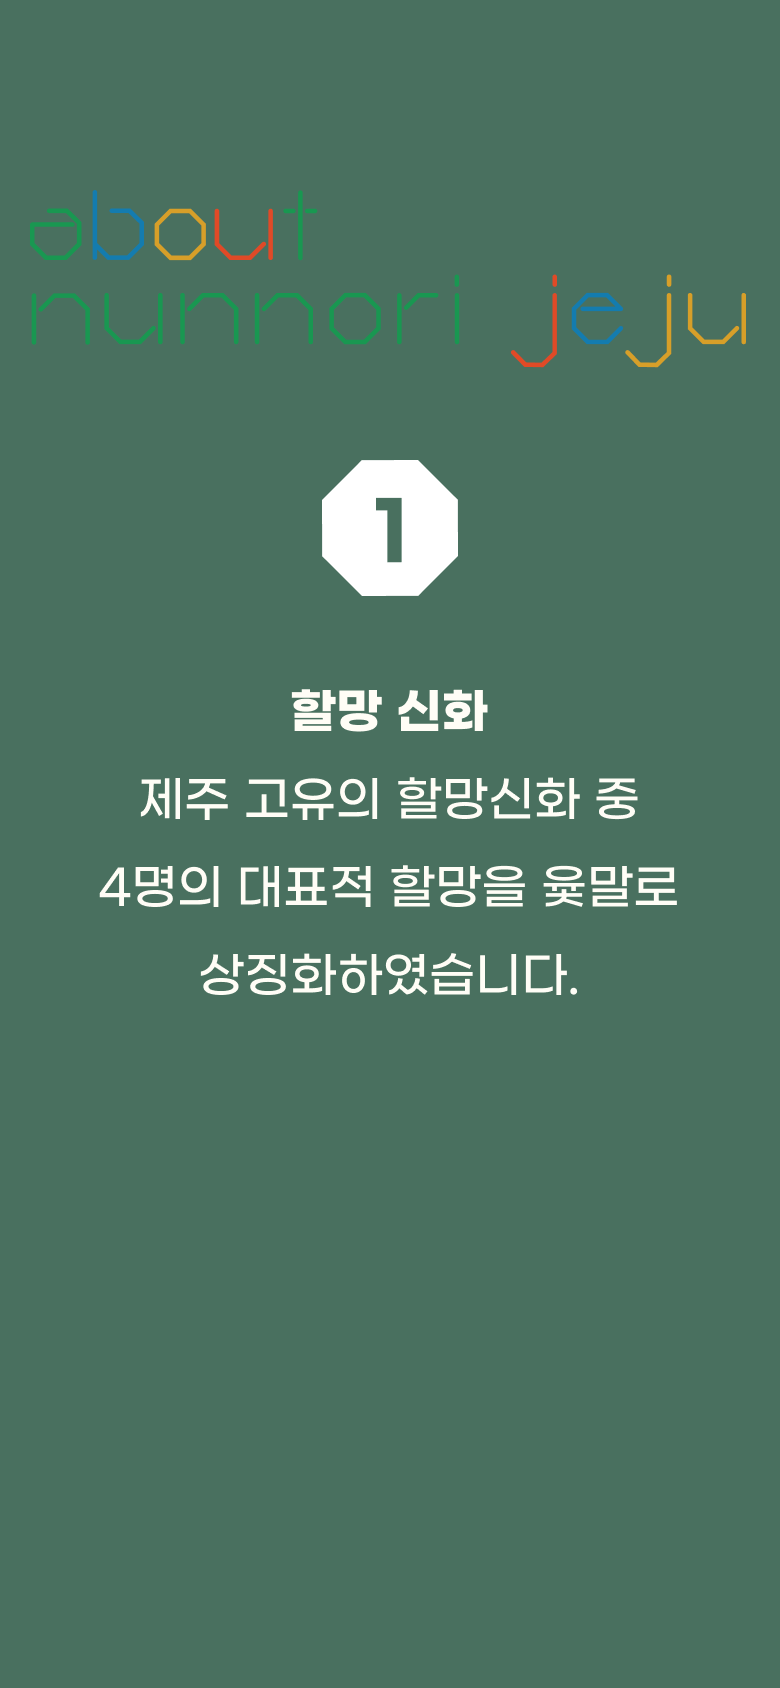
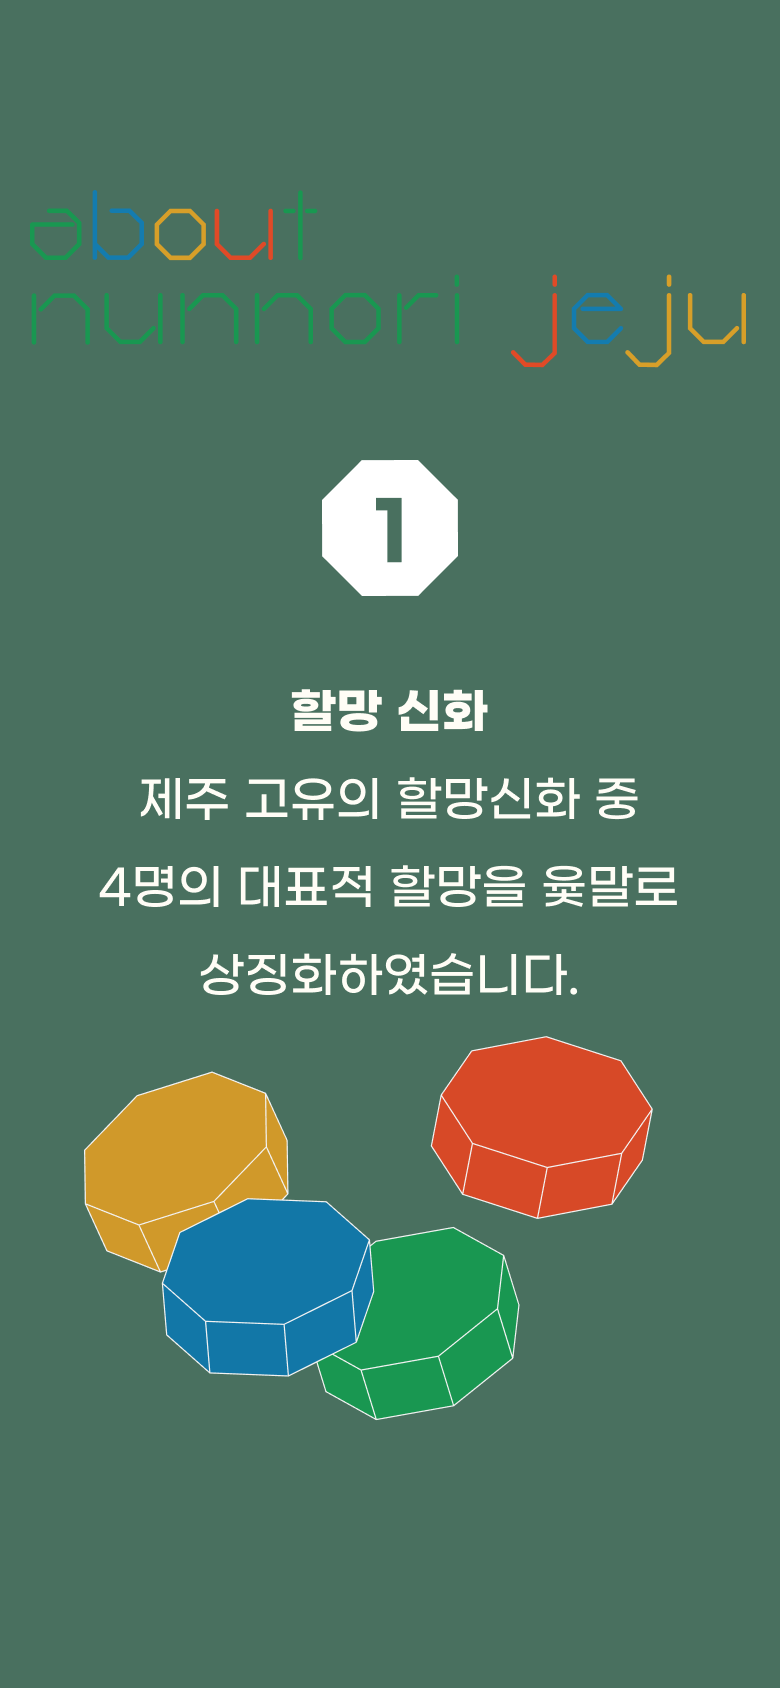
update

Changed region(s): [[0.0923, 0.6161, 0.8308, 0.8626]]

diff --git a/index.html b/index.html
@@ -3,7 +3,7 @@
 <head>
     <meta charset="UTF-8">
     <meta name="viewport" content="width=device-width, initial-scale=1.0">
-    <title> Nunnori jeju</title>
+    <title>눈노리제주|Nunnori jeju</title>
 
     <!-- Bootstrap 5 CSS -->
     <link href="https://cdn.jsdelivr.net/npm/bootstrap@5.1.0/dist/css/bootstrap.min.css" rel="stylesheet" integrity="sha384-KyZXEAg3QhqLMpG8r+8fhAXLRk2vvoC2f3B09zVXn8CA5QIVfZOJ3BCsw2P0p/We" crossorigin="anonymous">
@@ -131,13 +131,24 @@
     </div>
 
 <!-- page9 -->
-    <div class="container-fluid defPages page" id="page9">
+<div class="container-fluid defPages page" id="page8">
+    <div class="row justify-content-center align-middle">
+        <div class="col-12"> 
+            <div class="def img9">
+            </div>
+            </div>
+        </div>
+    </div>
+
+
+<!-- page10 -->
+    <div class="container-fluid defPages page" id="page10">
         <div class="row justify-content-center align-middle">
             <div class="col-12 pd"> 
                 <div class="img_p1 align-items-center"></div>
                 </div>
                 <a href="https://forms.gle/ETpGRX713ufFf83H7" class="btn-lg mt-5 rounded-pill btn-main col-8" id="nextPage1" role="button">신청하러가기</a>
-                <a href="https://forms.gle/ETpGRX713ufFf83H7" class="btn-lg mt-2 rounded-pill btn-main col-8" id="nextPage1" role="button">스마트스토어</a>
+                <!-- <a href="https://forms.gle/ETpGRX713ufFf83H7" class="btn-lg mt-2 rounded-pill btn-main col-8" id="nextPage1" role="button">스마트스토어</a> -->
 
             </div>
                 </div>

diff --git a/style.css b/style.css
@@ -1,6 +1,17 @@
+html, body {
+    height: 100%;       /* Ensure they take up the full viewport height */
+    overflow: hidden;   /* Prevent content from overflowing */
+    margin: 0;          /* Reset default margin */
+    padding: 0;  
+}
+
+html {
+    overflow: hidden !important;
+}
+
 body {
 box-sizing:border-box;
-overflow: hidden;
+overflow: hidden !important;
 background-color: #FFFDF6;
 margin: 0 auto;
 padding: 0;
@@ -72,6 +83,7 @@ padding: 0 auto;
 .img6{background-image: url("img/img6.png");}
 .img7{background-image: url("img/img7.png");}
 .img8{background-image: url("img/img8.png");}
+.img9{background-image: url("img/img9.png");}
 
 .control {
     position: fixed;
@@ -170,35 +182,27 @@ background-color: #49705F;
 .looping-card:nth-child(2) {
     animation-delay: 5s;
 }
-
 .looping-card:nth-child(3) {
     animation-delay: 10s;
 }
-
 .looping-card:nth-child(4) {
     animation-delay: 15s;
 }
-
 .looping-card:nth-child(5) {
     animation-delay: 20s;
 }
-
 .looping-card:nth-child(6) {
     animation-delay: 25s;
 }
-
 .looping-card:nth-child(7) {
     animation-delay: 30s;
 }
-
 .looping-card:nth-child(8) {
     animation-delay: 35s;
 }
-
 .looping-card:nth-child(9) {
     animation-delay: 40s;
 }
-
 .looping-card:nth-child(10) {
     animation-delay: 45s;
 }
@@ -218,6 +222,7 @@ background-color: #49705F;
 
 
 .card-wrapper {
+    right: 0;
     padding:0;
     position: absolute;
     z-index: 1000;  /* adjust as necessary */

diff --git a/script.js b/script.js
@@ -12,7 +12,7 @@ document.addEventListener("DOMContentLoaded", function() {
 
     function updateControlsVisibility() {
         leftControl.style.display = (pageIndex === 0) ? 'none' : 'block';
-        rightControl.style.display = (pageIndex === 8) ? 'none' : 'block';
+        rightControl.style.display = (pageIndex === 9) ? 'none' : 'block';
 
 
     }
